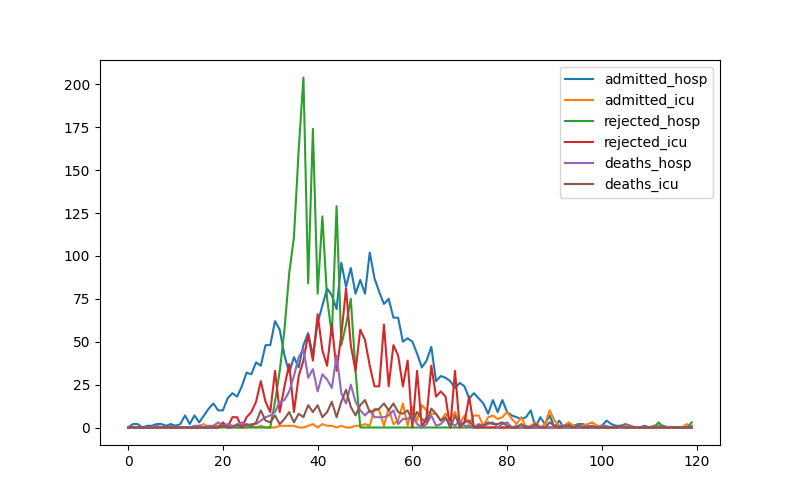
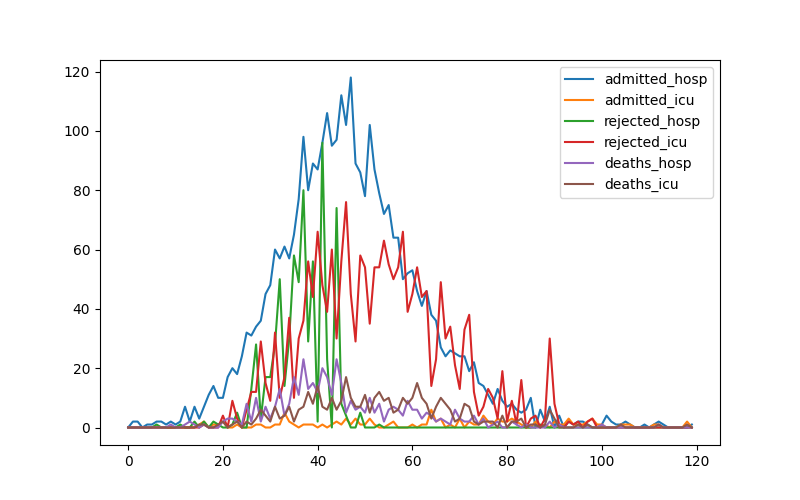
Поменял количество предсказываемых дней

diff --git a/src/RL/run.py b/src/RL/run.py
@@ -62,11 +62,6 @@ def run_with_rl(
     expected_hosp = 0
     expected_icu = 0
 
-    expected_hosp_5 = 0
-    expected_icu_5 = 0
-    expected_hosp_15 = 0
-    expected_icu_15 = 0
-
     for day in range(days):
         # print(f"day: {day}")
         actions = []
@@ -89,24 +84,24 @@ def run_with_rl(
                 initial_exposed=params.initial_exposed,
                 initial_infectious=params.initial_infectious
             )
-            seir_df = simulate_seir_hcd(params=seir_params_today, days=15, start_day=day+1, beta_time_fn=beta_time_fn, data=seir_df)
+            seir_df = simulate_seir_hcd(params=seir_params_today, days=7, start_day=day+1, beta_time_fn=beta_time_fn, data=seir_df)
 
-            expected_hosp = seir_df["new_hospitalizations"].iloc[-15]
-            expected_icu = seir_df["new_icu"].iloc[-15]
+            expected_hosp = seir_df["new_hospitalizations"].iloc[-7]
+            expected_icu = seir_df["new_icu"].iloc[-7]
 
-            expected_hosp_5 = seir_df["new_hospitalizations"].iloc[-5]
-            expected_icu_5 = seir_df["new_icu"].iloc[-5]
-            expected_hosp_15 = seir_df["new_hospitalizations"].iloc[-1]
-            expected_icu_15 = seir_df["new_icu"].iloc[-1]
+            expected_hosp_3 = seir_df["new_hospitalizations"].iloc[-5]
+            expected_icu_3 = seir_df["new_icu"].iloc[-5]
+            expected_hosp_7 = seir_df["new_hospitalizations"].iloc[-1]
+            expected_icu_7 = seir_df["new_icu"].iloc[-1]
 
             for hid, agent in enumerate(agents):
                 des.hospitals[hid].save_daily_metrics(day=day)
                 obs_list[hid] = np.append(obs_list[hid], expected_hosp)
                 obs_list[hid] = np.append(obs_list[hid], expected_icu)
-                obs_list[hid] = np.append(obs_list[hid], expected_hosp_5)
-                obs_list[hid] = np.append(obs_list[hid], expected_icu_5)
-                obs_list[hid] = np.append(obs_list[hid], expected_hosp_15)
-                obs_list[hid] = np.append(obs_list[hid], expected_icu_15)
+                obs_list[hid] = np.append(obs_list[hid], expected_hosp_3)
+                obs_list[hid] = np.append(obs_list[hid], expected_icu_3)
+                obs_list[hid] = np.append(obs_list[hid], expected_hosp_7)
+                obs_list[hid] = np.append(obs_list[hid], expected_icu_7)
 
         for hid, agent in enumerate(agents):
             des.hospitals[hid].save_daily_metrics(day=day)
@@ -155,10 +150,10 @@ def run_with_rl(
         # print(metric_day["expenses"])
 
         # Логирование
-        logs["infection"].append(seir_df["new_infected"].iloc[-15])
+        logs["infection"].append(seir_df["new_infected"].iloc[-7])
         logs["hosp_expected"].append(expected_hosp)
         logs["icu_expected"].append(expected_icu)
-        logs["deaths_expected"].append(seir_df["new_deaths"].iloc[-15])
+        logs["deaths_expected"].append(seir_df["new_deaths"].iloc[-7])
         logs["population"].append(params.population)
 
         for k, v in metric_day.items():
@@ -183,26 +178,26 @@ def run_with_rl(
             initial_exposed=params.initial_exposed,
             initial_infectious=params.initial_infectious
         )
-        seir_df = simulate_seir_hcd(params=seir_params_tomorrow, days=15, start_day=day + 2, beta_time_fn=beta_time_fn,
+        seir_df = simulate_seir_hcd(params=seir_params_tomorrow, days=7, start_day=day + 2, beta_time_fn=beta_time_fn,
                                     data=seir_df)
 
-        expected_hosp = seir_df["new_hospitalizations"].iloc[-15]
-        expected_icu = seir_df["new_icu"].iloc[-15]
+        expected_hosp = seir_df["new_hospitalizations"].iloc[-7]
+        expected_icu = seir_df["new_icu"].iloc[-7]
 
-        expected_hosp_5 = seir_df["new_hospitalizations"].iloc[-5]
-        expected_icu_5 = seir_df["new_icu"].iloc[-5]
-        expected_hosp_15 = seir_df["new_hospitalizations"].iloc[-1]
-        expected_icu_15 = seir_df["new_icu"].iloc[-1]
+        expected_hosp_3 = seir_df["new_hospitalizations"].iloc[-5]
+        expected_icu_3 = seir_df["new_icu"].iloc[-5]
+        expected_hosp_7 = seir_df["new_hospitalizations"].iloc[-1]
+        expected_icu_7 = seir_df["new_icu"].iloc[-1]
 
 
         for hid, h in enumerate(des.hospitals):
             metrics = h.daily_metrics(day=day)
             metrics["expected_hosp_1_day"] = expected_hosp / 3
             metrics["expected_icu_1_day"] = expected_icu / 3
-            metrics["expected_hosp_5_day"] = expected_hosp_5 / 3
-            metrics["expected_icu_5_day"] = expected_icu_5 / 3
-            metrics["expected_hosp_15_day"] = expected_hosp_15 / 3
-            metrics["expected_icu_15_day"] = expected_icu_15 / 3
+            metrics["expected_hosp_3_day"] = expected_hosp_3 / 3
+            metrics["expected_icu_3_day"] = expected_icu_3 / 3
+            metrics["expected_hosp_7_day"] = expected_hosp_7 / 3
+            metrics["expected_icu_7_day"] = expected_icu_7 / 3
 
             next_obs, reward = envs[hid].step(metrics, actions[hid])
 

diff --git a/src/run.py b/src/run.py
@@ -25,15 +25,15 @@ def run_two_way(
     """Запуск симуляции"""
     rng = np.random.RandomState(settings.RANDOM_SEED)
 
-    # # Моделирование SD модели
+    # Моделирование SD модели
     # init_params_sd = copy.deepcopy(init_params)
     #
     # sd_logs = simulate_seir_hcd(params=init_params_sd, days=settings.DAYS)
     # plots.display_SD_results(sd_logs, init_params_sd)
     # plots.plot_SD_results(sd_logs)
     # plots.save_SD_results(sd_logs)
-    #
-    # # Моделирование SD <-> DES
+
+    # Моделирование SD <-> DES
     # hospitals_cfg_des = [copy.deepcopy(h) for h in hospitals_cfg]
     # init_params_des = replace(init_params)
     #
@@ -42,25 +42,25 @@ def run_two_way(
     # plots.save_SD_DES_results(des_logs, des)
 
     # Моделирование с TTM управлением больниц
-    hospitals_cfg_ttm = [copy.deepcopy(h) for h in hospitals_cfg]
-    init_params_ttm = replace(init_params)
-
-    ttm_logs, des = run_ttm(hospitals_cfg_ttm, init_params_ttm, days, rng)
-    # plots.plot_SD_DES_results(ttm_logs)
-    plots.plot_RL_results(ttm_logs)
-    plots.plot_RL_actions(ttm_logs)
-
-    # # Использование RL агента
-    # hospitals_cfg_rl = [copy.deepcopy(h) for h in hospitals_cfg]
-    # init_params_rl = replace(init_params)
-    # agents = [HospitalAgent() for _ in hospitals_cfg_rl]
-    # envs = [HospitalEnv(i) for i in range(len(hospitals_cfg_rl))]
-    # for i in range(len(agents)):
-    #     agents[i] = load_agent_checkpoint(agents[i], f"checkpoints/hospital_rl/agent_best.pt")
+    # hospitals_cfg_ttm = [copy.deepcopy(h) for h in hospitals_cfg]
+    # init_params_ttm = replace(init_params)
     #
-    # rl_logs, des, agents, _ = run_with_rl(hospitals_cfg_rl, init_params_rl, days, rng, agents, envs, False)
-    # plots.plot_SD_DES_results(rl_logs)
-    # plots.plot_RL_results(rl_logs)
+    # ttm_logs, des = run_ttm(hospitals_cfg_ttm, init_params_ttm, days, rng)
+    # plots.plot_SD_DES_results(ttm_logs)
+    # plots.plot_RL_results(ttm_logs)
+    # plots.plot_RL_actions(ttm_logs)
+
+    # Использование RL агента
+    hospitals_cfg_rl = [copy.deepcopy(h) for h in hospitals_cfg]
+    init_params_rl = replace(init_params)
+    agents = [HospitalAgent() for _ in hospitals_cfg_rl]
+    envs = [HospitalEnv(i) for i in range(len(hospitals_cfg_rl))]
+    for i in range(len(agents)):
+        agents[i] = load_agent_checkpoint(agents[i], f"checkpoints/hospital_rl/agent_best.pt")
+
+    rl_logs, des, agents, _ = run_with_rl(hospitals_cfg_rl, init_params_rl, days, rng, agents, envs, False)
+    plots.plot_SD_DES_results(rl_logs)
+    plots.plot_RL_results(rl_logs)
     # plots.plot_DES_vs_RL(des_logs, rl_logs)
-    # plots.plot_RL_actions(rl_logs)
+    plots.plot_RL_actions(rl_logs)
 

diff --git a/src/RL/env.py b/src/RL/env.py
@@ -70,10 +70,10 @@ class HospitalEnv:
         reward -= (death_ratio * 0.7) + (reject_ratio * 0.3)  # 70% веса на смерти, 30% на отказы
 
         # 2. Штрафы за нехватку ресурсов (нормализованы на прогноз спроса)
-        hosp_shortage_weights = {1: 0.6, 5: 0.3, 15: 0.1}  # Веса для разных горизонтов
-        icu_shortage_weights = {1: 0.7, 5: 0.2, 15: 0.1}  # ИВЛ важнее в краткосрочной перспективе
+        hosp_shortage_weights = {1: 0.6, 3: 0.3, 7: 0.1}  # Веса для разных горизонтов
+        icu_shortage_weights = {1: 0.7, 3: 0.2, 7: 0.1}  # ИВЛ важнее в краткосрочной перспективе
 
-        for days in [1, 5, 15]:
+        for days in [1, 3, 7]:
             # Прогнозируемый спрос
             hosp_demand = max(metrics[f'expected_hosp_{days}_day'], 1)
             icu_demand = max(metrics[f'expected_icu_{days}_day'], 1)
@@ -91,8 +91,8 @@ class HospitalEnv:
             reward -= icu_shortage_ratio * icu_shortage_weights[days] * 0.6  # 60% от общего веса (ИВЛ критичнее)
 
         # 3. Штрафы за избыток ресурсов (нормализованы на прогноз)
-        max_hosp_demand = max(1, metrics['expected_hosp_15_day'])
-        max_icu_demand = max(1, metrics['expected_icu_15_day'])
+        max_hosp_demand = max(1, metrics['expected_hosp_7_day'])
+        max_icu_demand = max(1, metrics['expected_icu_7_day'])
 
         # Избыток >30% от прогноза
         beds_ratio = (metrics['beds'] + metrics['reserve_beds']) / max_hosp_demand
@@ -128,8 +128,8 @@ class HospitalEnv:
                 reward -= 0.2  # Критическая ошибка
 
         if action in [1, 2, 3, 4]:  # Покупка ресурсов
-            future_bed_deficit = max(0, metrics['expected_hosp_5_day'] - (metrics['beds'] + metrics['reserve_beds']))
-            future_icu_deficit = max(0, metrics['expected_icu_5_day'] - (metrics['icu'] + metrics['reserve_icu']))
+            future_bed_deficit = max(0, metrics['expected_hosp_3_day'] - (metrics['beds'] + metrics['reserve_beds']))
+            future_icu_deficit = max(0, metrics['expected_icu_3_day'] - (metrics['icu'] + metrics['reserve_icu']))
             if future_bed_deficit > 0 or future_icu_deficit > 0:
                 reward -= 0.1  # Недостаточная закупка
 
